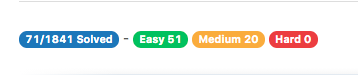
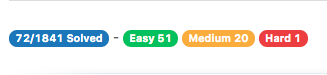
1402 - Reducing Dishes (#30)

Changed region(s): [[0.0306, 0.4, 0.948, 0.64], [0.0306, 0.0, 1.0, 0.0267], [0.2752, 0.9867, 1.0, 1.0]]

diff --git a/reducing_dishes_1402.py b/reducing_dishes_1402.py
@@ -1,0 +1,44 @@
+"""
+URL of problem:
+https://leetcode.com/problems/reducing-dishes/
+"""
+
+
+class Solution(object):
+    def maxSatisfaction(self, satisfaction):
+        """
+        :type satisfaction: List[int]
+        :rtype: int
+        """
+        satisfaction.sort()
+        sum_like_times = 0
+        # All dishes have (zero or) positive satisfaction
+        if satisfaction[0] >= 0:
+            for idx, satsfn in enumerate(satisfaction):
+                sum_like_times += ((idx+1) * satsfn)
+
+            return sum_like_times
+
+        # All dishes have negative (or zero) satisfaction
+        elif satisfaction[-1] <= 0:
+            return 0
+
+        # General case
+        max_value = 0
+        for start_idx in range(len(satisfaction)):
+            sum_like_times = 0
+            for idx, satsfn in enumerate(satisfaction[start_idx:]):
+                sum_like_times += ((idx+1) * satsfn)
+
+            if sum_like_times > max_value:
+                max_value = sum_like_times
+
+        return max_value
+
+
+def main():
+    print(Solution().maxSatisfaction([-2, 5, -1, 0, 3, -3]))
+
+
+if __name__ == '__main__':
+    main()

diff --git a/README.md b/README.md
@@ -62,6 +62,7 @@ Platform for coding questions in different fields and at different levels. Using
 | [Power of Two - 231](https://leetcode.com/problems/power-of-two/) | [Link](./PowerOfTwo231.java)
 | [Projection Area of 3D Shapes - 883](https://leetcode.com/problems/projection-area-of-3d-shapes/description/) | [Link](./projection_area_3d_shapes_883.py)
 | [Range Sum of BST - 938](https://leetcode.com/problems/range-sum-of-bst) | [Link](./RangeSumBST938.java)
+| [Reducing Dishes - 1402](https://leetcode.com/problems/reducing-dishes/) | [Link](./reducing_dishes_1402.py)
 | [Reveal Cards In Increasing Order - 950](https://leetcode.com/problems/reveal-cards-in-increasing-order) | [Link](./RevealCardsIncOrder950.java)
 | [Reverse Integer - 7](https://leetcode.com/problems/reverse-integer/description/) | [Link](./reverse_int_7.py)
 | [Reverse String - 344](https://leetcode.com/problems/reverse-string/description/) | [Link](./reverse_string_344.py)
